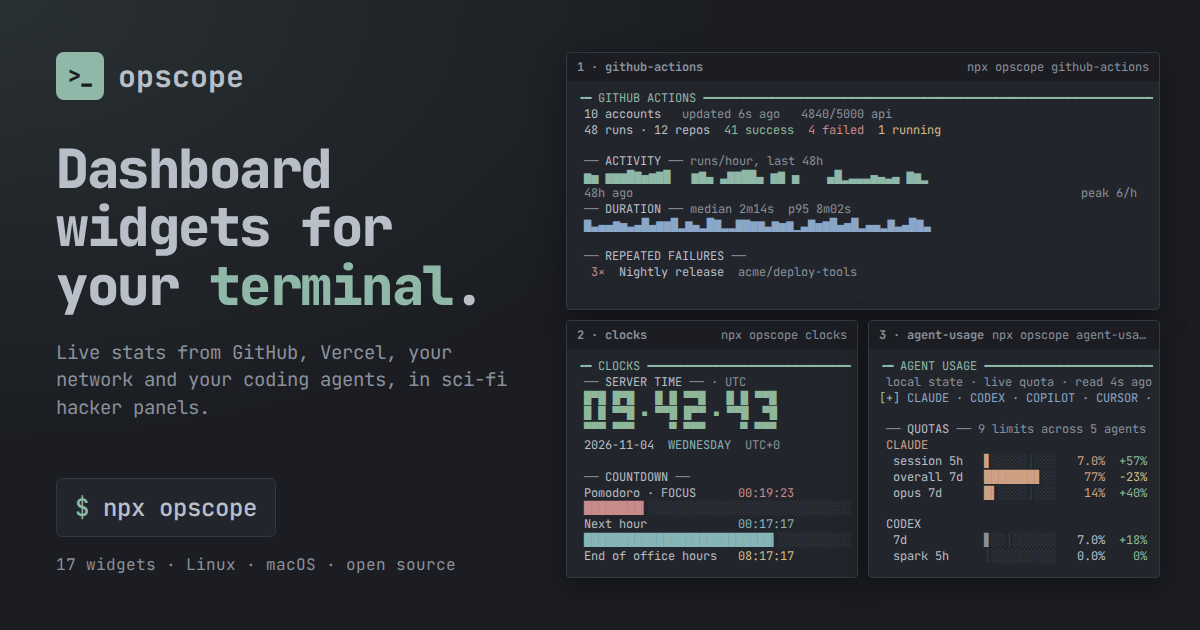
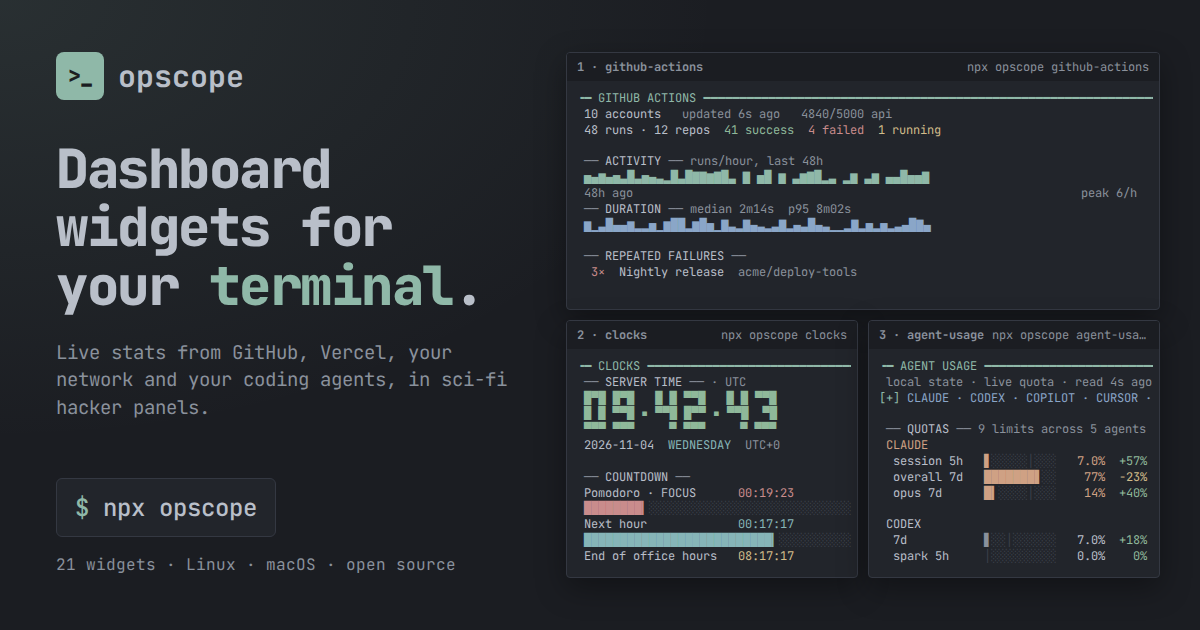
feat: add the four widgets from opscope v2.7.0 (#21)
* feat: add disk, google-analytics, google-search-console and rex-panes (opscope v2.7.0)

The four widgets the site was missing as of opscope v2.7.0, each with a
demo laid out after its README mock-up:

- disk (system & network): filesystems with time-to-full, whole disks,
  read/write chart, I/O pressure.
- google-analytics (dev & deploy): realtime against a baseline, today vs
  same weekday, key events. Dummy data is opscope's own site.
- google-search-console (dev & deploy): last 24 hours of clicks with
  hours still collecting, query movers, index health.
- rex-panes (agents): Rex sessions ordered by who needs a human, with
  reported status, progress and child records.

The dashboard window now shows ports in slot 5 (was latency),
google-search-console in slot 7 and google-analytics in slot 8 (was
months). The network group is labelled "system & network". The site,
README and social card say 21 widgets.

Claude-Session: https://claude.ai/code/session_01KVgNwqvAmxQYz7gbSeKUNW

* fix: keep every Search Console hour visible and stop hard-coding the widget count

- Use 2-character bars only at 83+ columns (12-column label + 71-column
  chart), so panes 64-82 wide no longer clip the newest hours.
- Mark still-collecting hours per cell, which keeps the gap before each
  ░░ in the wide layout.
- Homepage intro and meta description use widgets.length instead of
  "Seventeen".

Claude-Session: https://claude.ai/code/session_01KVgNwsNjDaEgM1q1a9tYrJ

---------

Changed region(s): [[0.4933, 0.3317, 0.7708, 0.3619], [0.4933, 0.2714, 0.7708, 0.3016], [0.0308, 0.8746, 0.0617, 0.9048]]

diff --git a/src/scripts/demos.ts b/src/scripts/demos.ts
@@ -964,9 +964,293 @@ function matrix(): Demo {
 	};
 }
 
+/* ── system ──────────────────────────────────────────────────────────── */
+
+function disk(): Demo {
+	const GB = 1e9;
+	const mounts = [
+		{ mount: '/', type: 'ext4', size: 100 * GB, used: 80.4 * GB, rate: 1.2 * GB },
+		{ mount: '/home', type: 'xfs', size: 200 * GB, used: 40 * GB, rate: 0 },
+		{ mount: '/srv', type: 'ext4', size: 500 * GB, used: 310 * GB, rate: 6.5 * GB },
+	];
+	const disks = [
+		{ name: 'nvme0n1', type: 'ssd', size: '1T', r: 1.5e6, w: 18e6, busy: 18 },
+		{ name: 'sda', type: 'hdd', size: '4T', r: 4e5, w: 1e6, busy: 2 },
+	];
+	const rd: number[] = hist(90, () => rnd(2e5, 3e6)), wr: number[] = hist(90, () => rnd(1e6, 3e7));
+	let some = 23.1, full = 7.2, sel = 0, f = 0;
+	const step = () => {
+		f++;
+		const burst = Math.random() < 0.15;
+		push(rd, burst ? rnd(2e6, 9e6) : rnd(2e5, 3e6), 90);
+		push(wr, burst ? rnd(2e7, 6e7) : rnd(1e6, 2.5e7), 90);
+		disks[0].r = rd[rd.length - 1] * 0.8;
+		disks[0].w = wr[wr.length - 1] * 0.9;
+		disks[0].busy = Math.round(clamp(disks[0].w / 4e5, 3, 96));
+		disks[1].r = rd[rd.length - 1] * 0.2;
+		disks[1].w = wr[wr.length - 1] * 0.1;
+		disks[1].busy = Math.round(clamp(disks[1].w / 2e5, 0, 40));
+		// A demo hour passes every 2s, so the filling mounts creep up.
+		mounts.forEach((m) => (m.used = Math.min(m.size * 0.995, m.used + m.rate / 1800)));
+		some = walk(some, 1.5, 4, 40);
+		full = walk(full, 0.8, 0, some / 2);
+		if (f % 8 === 0) sel = (sel + 1) % mounts.length;
+	};
+	const fills = (m: (typeof mounts)[number]) => {
+		if (!m.rate) return 'not filling';
+		const h = (m.size - m.used) / m.rate;
+		return h < 24 ? `~${Math.round(h)}h` : `~${Math.floor(h / 24)}d ${Math.round(h % 24)}h`;
+	};
+	return {
+		every: 1000,
+		tick: step,
+		render(cols) {
+			const L: Line[] = [
+				header('DISK', cols),
+				[[` sampled ${f % 2}s ago · every 2s`, 'mu']],
+				[[` ${mounts.length} of 11 shown · pseudo, bind, read-only hidden`, 'mu']],
+				blank(),
+				section('FILESYSTEMS', 'usable excludes root reserve'),
+				[[' ' + pad('MOUNT', 7) + padL('SIZE', 6) + padL('USABLE', 8) + ' '.repeat(12) + 'FULL IN', 'c']],
+			];
+			mounts.forEach((m, i) => {
+				const frac = m.used / m.size;
+				const b = bar(frac, 6);
+				const c: Colour = frac > 0.9 ? 'r' : frac > 0.8 ? 'y' : 'g';
+				const fi = fills(m);
+				L.push([[i === sel ? '▸' : ' ', 'acc'], [pad(m.mount, 7), 'fg'], [padL(fmtBytes(m.size).replace(' ', ''), 6), 'mu'], [padL(fmtBytes(m.size - m.used).replace(' ', ''), 8) + ' ', 'fg'], [b.on, c], [b.off, 'dim'], [padL(Math.round(frac * 100) + '%', 4) + ' ', c], [fi, fi.startsWith('~') && !fi.includes('d') ? 'r' : fi.startsWith('~') ? 'y' : 'mu']]);
+			});
+			L.push([[' FULL IN at the rate of the last 24h', 'mu']]);
+			L.push(blank(), section('DISKS', 'whole disks · sorted: write'));
+			L.push([[' ' + pad('DISK', 10) + pad('TYPE', 6) + padL('SIZE', 5) + padL('READ', 9) + padL('WRITE', 9) + padL('BUSY', 6), 'c']]);
+			disks.forEach((d) => L.push([[' ' + pad(d.name, 10), 'fg'], [pad(d.type, 6) + padL(d.size, 5), 'mu'], [padL(fmtRate(d.r).replace(' ', ''), 9), 'b'], [padL(fmtRate(d.w).replace(' ', ''), 9), 'm'], [padL(d.busy + '%', 6), d.busy > 80 ? 'r' : d.busy > 50 ? 'y' : 'fg']]));
+			// Read above the line, write below, each on its own scale (writes run ten times larger).
+			const w = cols - 15;
+			L.push(blank());
+			columns(rd.slice(-w), 2).forEach((s, i) => L.push([[i === 1 ? padL('read ' + fmtRate(rd[rd.length - 1]).replace(' ', ''), 13) + ' ' : ' '.repeat(14), 'mu'], [s, 'b']]));
+			L.push([[' '.repeat(14) + '─'.repeat(w), 'mu']]);
+			columns(wr.slice(-w), 2).reverse().forEach((s, i) => L.push([[i === 0 ? padL('write ' + fmtRate(wr[wr.length - 1]).replace(' ', ''), 13) + ' ' : ' '.repeat(14), 'mu'], [s.replace(/[▁▂▃▄▅▆▇]/g, '▀'), 'm']]));
+			L.push(blank(), [[' /proc/pressure/io · stall time, not busy time', 'mu']]);
+			L.push([[' some ', 'mu'], [`${some.toFixed(1)}%`, some > 30 ? 'r' : some > 15 ? 'y' : 'fg'], [' avg10   full ', 'mu'], [`${full.toFixed(1)}%`, full > 10 ? 'r' : 'fg'], [' avg10', 'mu']]);
+			L.push(blank(), keys('↑↓ select  [↵] detail  [s]ort  tab section  [w] 6h  [p]ause  [q]uit'));
+			return L;
+		},
+	};
+}
+
+/* ── web ─────────────────────────────────────────────────────────────── */
+
+function googleAnalytics(): Demo {
+	// Active users per minute for the last 30 minutes, and the baseline for this minute of the week.
+	const perMin: number[] = hist(30, () => Math.round(rnd(30, 60)));
+	// The opscope site itself: its one page, its windows, and the events it sends.
+	const active = new Roll(71);
+	const base = 48;
+	const pages = [
+		{ t: '/', n: 34 },
+		{ t: '/#widgets', n: 19 },
+		{ t: '/?theme=nord', n: 11 },
+	];
+	const countries = [
+		{ t: 'United States', n: 41 },
+		{ t: 'Australia', n: 9 },
+		{ t: 'Germany', n: 7 },
+	];
+	const events = [
+		{ name: 'command_copy', today: 23, last: 31, d7: [5, 6, 5, 7, 6, 7] },
+		{ name: 'outbound_click', today: 41, last: 38, d7: [3, 4, 3, 5, 4, 5] },
+	];
+	let views = 540, today = 1842;
+	const lastWeek = 1690;
+	const realtime = new Refresh(6, () => {
+		// A new minute lands: the oldest falls off the chart.
+		const n = Math.round(clamp(active.target + rnd(-9, 10), 28, 110));
+		active.set(n);
+		push(perMin, Math.round(n * rnd(0.5, 0.9)), 30);
+		views += Math.round(rnd(-20, 30));
+		pages.forEach((p) => (p.n = Math.max(1, p.n + Math.round(rnd(-3, 3)))));
+		pages.sort((a, b) => b.n - a.n);
+		countries.forEach((c) => (c.n = Math.max(1, c.n + Math.round(rnd(-2, 2)))));
+		countries.sort((a, b) => b.n - a.n);
+		if (Math.random() < 0.4) events[1].today++;
+		if (Math.random() < 0.2) events[0].today++;
+		today += Math.round(rnd(4, 18));
+	}, 3);
+	return {
+		every: 1000,
+		tick() {
+			realtime.poll();
+		},
+		render(cols) {
+			const now = active.n;
+			const d = Math.round(((now - base) / base) * 100);
+			const L: Line[] = [
+				header('GOOGLE ANALYTICS', cols),
+				[[' opscope.stealth-factory.co', 'fg'], ['  ←→ 1 of 2  ', 'mu'], realtime.seg('realtime')],
+				blank(),
+				section('RIGHT NOW', 'last 30 min · GA realtime'),
+				[[' active users ', 'mu'], [String(now), active.moving ? 'g' : 'fg'], [`   baseline ${base} · from 2 of 4 weeks   `, 'mu'], [`${d >= 0 ? '+' : ''}${d}% ${d > 20 ? '▲' : d < -20 ? '▼' : ''}`, d > 20 ? 'g' : d < -20 ? 'r' : 'fg']],
+			];
+			const w = Math.min(30, cols - 16);
+			const pk = Math.max(...perMin);
+			columns(perMin.slice(-w), 3, pk).forEach((s, i) => L.push([[pad(i === 0 ? ' per minute' : i === 1 ? ` peak ${pk}` : ' 30 min → now', 15), 'mu'], [s, 'acc']]));
+			L.push([[' views 30m ', 'mu'], [views.toLocaleString('en-US'), 'fg']]);
+			L.push([[' key events 30m: ', 'mu'], ['command_copy 3', 'fg'], [' (base 2)', 'mu']]);
+			const half = Math.floor((cols - 2) / 2);
+			const two = half >= 24;
+			const tw = (two ? half : cols - 2) - 6;
+			if (two) {
+				L.push([[' ' + pad('PAGE', tw) + padL('NOW', 5) + '  ' + pad('COUNTRY', tw - 1) + padL('NOW', 5), 'c']]);
+				pages.forEach((p, i) => L.push([[' ' + pad(p.t, tw), 'fg'], [padL(p.n, 5) + '  ', 'acc'], [pad(countries[i].t, tw - 1), 'fg'], [padL(countries[i].n, 5), 'acc']]));
+			} else {
+				L.push([[' ' + pad('PAGE', tw) + padL('NOW', 5), 'c']]);
+				pages.forEach((p) => L.push([[' ' + pad(p.t, tw), 'fg'], [padL(p.n, 5), 'acc']]));
+			}
+			L.push(blank(), section('TODAY VS SAME WEEKDAY', 'sessions · 2–6 h behind'));
+			const dt = Math.round(((today - lastWeek) / lastWeek) * 100);
+			L.push([[' to 15:00: today ', 'mu'], [today.toLocaleString('en-US'), 'fg'], [`  last Tue ${lastWeek.toLocaleString('en-US')} `, 'mu'], [`${dt >= 0 ? '+' : ''}${dt}%`, dt >= 0 ? 'g' : 'r']]);
+			L.push(blank(), section('KEY EVENTS', 'today to 15:00 vs same weekday'));
+			L.push([[' ' + pad('EVENT', 15) + padL('TODAY', 6) + padL('LAST', 6) + padL('Δ', 7) + '  LAST 7 D', 'c']]);
+			events.forEach((e, i) => {
+				const de = Math.round(((e.today - e.last) / e.last) * 100);
+				L.push([[i === 0 ? '▸' : ' ', 'acc'], [pad(e.name, 15), 'fg'], [padL(e.today, 6), 'fg'], [padL(e.last, 6), 'mu'], [padL(`${de >= 0 ? '+' : ''}${de}%`, 7), de <= -20 ? 'r' : de >= 20 ? 'g' : 'fg'], ['  ' + spark(e.d7, 8), 'acc'], ['░', 'dim']]);
+			});
+			L.push(blank(), keys('↑↓ row  tab section  ←→ property  ↵ detail  [m]etric  [l]ive  [q]uit'));
+			return L;
+		},
+	};
+}
+
+function googleSearchConsole(): Demo {
+	// Clicks per hour, last 24; the newest hours are still being collected.
+	const shape = (h: number) => 40 + 100 * Math.max(0, Math.sin(((h - 6) / 24) * Math.PI * 2)) + rnd(-12, 12);
+	let hour = 11;
+	const clicks: number[] = Array.from({ length: 24 }, (_, i) => Math.round(shape(hour - 23 + i)));
+	let collecting = 3;
+	const queries = [
+		{ q: 'example widget pricing', impr: 6000, d: 50, pos: 5.0, dp: 0 },
+		{ q: 'example dashboard', impr: 3200, d: 12, pos: 7.4, dp: 0.6 },
+		{ q: 'example', impr: 1000, d: NaN, pos: 5.0, dp: 0 },
+		{ q: 'example cli docs', impr: 840, d: -31, pos: 11.2, dp: -2.1 },
+	];
+	const index = [
+		{ st: 'FAIL', c: 'r' as Colour, page: '/docs/getting-started', why: 'SOFT_404 · Google chose /pricing' },
+		{ st: 'ERROR', c: 'y' as Colour, page: '/docs/old-guide', why: 'HTTP 404 · crawled 34h ago' },
+	];
+	let inspections = 3, sel = 0, f = 0;
+	const refresh = new Refresh(12, () => {
+		// Google finishes an hour: it stops collecting, and a new hour starts.
+		hour = (hour + 1) % 24;
+		push(clicks, Math.round(shape(hour)), 24);
+		collecting = 3;
+		inspections += 1;
+		queries.forEach((q) => (q.impr = Math.round(q.impr * rnd(0.98, 1.04))));
+	}, 4);
+	return {
+		every: 1000,
+		tick() {
+			f++;
+			refresh.poll();
+			if (f % 5 === 0) sel = (sel + 1) % queries.length;
+		},
+		render(cols) {
+			const L: Line[] = [
+				header('SEARCH CONSOLE', cols),
+				[[' sc-domain:example.com', 'fg'], ['   site 1 of 2   ', 'mu'], refresh.seg('fetched')],
+				[[` hourly to ${String(hour).padStart(2, '0')}:00 · Google runs a few hours behind`, 'mu']],
+				blank(),
+				section('LAST 24 HOURS', 'clicks by hour'),
+			];
+			const done = clicks.slice(0, 24 - collecting);
+			const pk = Math.max(...done);
+			// Wide bars (2 chars + a gap) need 12 + 24 * 3 - 1 = 83 columns; below that, 1-char bars keep every hour visible.
+			const cw = cols >= 83 ? 2 : 1;
+			const grid = columns(clicks.map((v, i) => (i >= 24 - collecting ? 0 : v)), 3, pk);
+			grid.forEach((s, r) => {
+				const row = [...s]
+					.map((ch, i) => (r === 2 && i >= 24 - collecting ? '░' : ch).repeat(cw))
+					.join(cw > 1 ? ' ' : '');
+				L.push([[pad(r === 0 ? ' clicks' : r === 1 ? ` peak ${pk}` : '', 12), 'mu'], [row, 'g']]);
+			});
+			const total = done.reduce((a, b) => a + b, 0);
+			L.push([[` ${done.length} complete hours: `, 'mu'], [`${total.toLocaleString('en-US')} clicks`, 'fg'], ['  vs last week ', 'mu'], ['+8%', 'g']]);
+			L.push([[' ░ still collecting', 'dim']]);
+			L.push(blank(), section('MOVERS · QUERIES', '7 days vs prior 7'));
+			const qw = Math.max(14, Math.min(26, cols - 26));
+			L.push([['  ' + pad('QUERY', qw) + padL('IMPR', 7) + padL('Δ', 7) + padL('POS', 6), 'c']]);
+			queries.forEach((q, i) => L.push([[i === sel ? '▸ ' : '  ', 'acc'], [pad(q.q, qw), i === sel ? 'acc' : 'fg'], [padL(q.impr.toLocaleString('en-US'), 7), 'fg'], [padL(isNaN(q.d) ? 'new' : `${q.d > 0 ? '+' : ''}${q.d}%`, 7), isNaN(q.d) || q.d > 0 ? 'g' : 'r'], [padL(q.pos.toFixed(1), 6), 'mu'], [q.dp ? (q.dp > 0 ? ' ▲' : ' ▼') + Math.abs(q.dp).toFixed(1) : '', q.dp > 0 ? 'g' : 'r']]));
+			L.push(blank(), section('INDEX HEALTH', `inspected daily · ${inspections}/2,000`));
+			index.forEach((x) => {
+				L.push([['  ' + pad(x.st, 7), x.c], [x.page, 'fg']]);
+				L.push([['           ' + x.why, 'mu']]);
+			});
+			L.push([['  ' + pad('PASS', 7), 'g'], ['23 pages   crawled within 34h', 'mu']]);
+			L.push(blank(), keys('↑↓ select  tab section  ←→ site  ↵ open  [m]etric  [i]nspect  [q]uit'));
+			return L;
+		},
+	};
+}
+
+/* ── agents (Rex) ────────────────────────────────────────────────────── */
+
+function rex(): Demo {
+	let f = 0, pct = 40;
+	const agents = [
+		{ who: 'claude', st: 'BLOCKED', for: 120, cpu: 1, mem: '412M', at: 'api:1', dir: '~/src/api', title: '◑ api', msg: 'permission · approve: cargo test --workspace' },
+		{ who: 'codex', st: 'working', for: 300, cpu: 22, mem: '231M', at: 'web:2', dir: '~/src/web', title: '◑ web', msg: 'rewriting the checkout form' },
+		{ who: 'claude', st: 'done', for: 960, cpu: 0, mem: '388M', at: 'site:2', dir: '~/work/site', title: 'Ok', msg: 'replied \'ok\' as requested' },
+		{ who: 'claude', st: 'unknown', for: 720, cpu: 0, mem: '193M', at: 'work:1', dir: '~', title: '◑ opscope', msg: 'no status reported' },
+	];
+	const order = ['BLOCKED', 'done', 'working', 'unknown'];
+	return {
+		every: 250,
+		tick() {
+			f++;
+			agents.forEach((a) => (a.for += 0.25));
+			agents[1].cpu = Math.round(walk(agents[1].cpu, 4, 4, 70));
+			if (f % 4 === 0) pct = pct >= 100 ? 0 : pct + 1;
+			// Every so often the working agent finishes, then starts on something new.
+			if (f % 80 === 0) {
+				const a = agents[1];
+				a.st = a.st === 'done' ? 'working' : 'done';
+				a.for = 0;
+				a.msg = a.st === 'done' ? 'checkout form rewritten, tests pass' : 'rewriting the checkout form';
+			}
+		},
+		render(cols) {
+			const icon = (s: string): [string, Colour] => (s === 'working' ? [spinner[f % 10], 'y'] : s === 'done' ? ['✓', 'g'] : s === 'BLOCKED' ? ['⚠', 'r'] : ['?', 'mu']);
+			const count = (s: string) => agents.filter((a) => a.st === s).length;
+			const waiting = count('BLOCKED') + count('done');
+			const L: Line[] = [
+				header('REX PANES', cols),
+				[[` ${agents.length} agents · 3 sessions · 10 panes  `, 'fg'], [`${count('BLOCKED')} blocked  `, 'r'], [`${count('done')} done  `, 'g'], [`${count('working')} working`, 'y']],
+				[[' ', 'fg'], ...stack([[count('BLOCKED'), 'r'], [count('done'), 'g'], [count('working'), 'y'], [count('unknown') + 5, 'dim']], cols - 2)],
+				[[` ▸ ${waiting} panes waiting for you`, 'acc']],
+				blank(),
+				section('AGENTS', String(agents.length)),
+				[[' ' + pad('AGENT', 10) + pad('STATE', 9) + padL('FOR', 5) + padL('CPU', 6) + padL('MEM', 6) + '  SESSION', 'c']],
+			];
+			[...agents].sort((a, b) => order.indexOf(a.st) - order.indexOf(b.st)).forEach((a, i) => {
+				const [ic, c] = icon(a.st);
+				L.push([[i === 0 ? '▸' : ' ', 'acc'], [ic + ' ', c], [pad(a.who, 8), 'fg'], [pad(a.st, 9), c], [padL((a.st === 'unknown' ? '≥' : '') + ago(a.for), 5), 'mu'], [padL(a.cpu + '%', 6), 'fg'], [padL(a.mem, 6), 'mu'], ['  ' + a.at, 'c']]);
+				L.push([[`   ${a.dir}  `, 'mu'], [a.title, 'fg']]);
+				L.push([[`   ${a.msg}`, a.st === 'BLOCKED' ? 'y' : 'mu']]);
+			});
+			L.push(blank(), section('PROCESSES', '2 panes running something'));
+			L.push([[' ▪ ', 'b'], [pad('terraform', 14), 'fg'], [pad('working', 9), 'y'], [padL(pct + '%', 5), 'fg'], ['  infra:1', 'c']]);
+			L.push([['   ├ ', 'mu'], ['plan  ', 'fg'], ['done  ', 'g'], ['├ apply  ', 'mu'], [pct < 100 ? `${spinner[f % 10]} running` : '✓ done', pct < 100 ? 'y' : 'g']]);
+			L.push([[' ▪ ', 'b'], [pad('cargo', 14), 'fg'], [pad('', 9), 'mu'], [padL('87%', 5), 'fg'], ['  web:1', 'c']]);
+			L.push(blank(), section('IDLE', '4 panes at a prompt'), [[' ▫ ~/work/site', 'mu']], [[' ▫ ~/src/api', 'mu']]);
+			L.push(blank(), keys('↑↓ select  ↵ switch to this pane  tab section  [e]xplain  [r]efresh  [q]uit'));
+			return L;
+		},
+	};
+}
+
 export const demos: Record<string, () => Demo> = {
-	latency, tailnet, ports, netwatch, link,
+	latency, tailnet, ports, netwatch, link, disk,
 	'vercel-deployments': vercel, github, 'github-actions': githubActions, 'github-prs': githubPrs, linear,
-	'herdr-panes': herdr, 'luvus-panes': luvus, 'agent-usage': agentUsage,
+	'google-analytics': googleAnalytics, 'google-search-console': googleSearchConsole,
+	'herdr-panes': herdr, 'luvus-panes': luvus, 'rex-panes': rex, 'agent-usage': agentUsage,
 	'google-trends': trends, clocks, months, matrix,
 };

diff --git a/src/data/widgets.ts b/src/data/widgets.ts
@@ -9,7 +9,7 @@ export interface Widget {
 }
 
 export const groups: { key: Group; label: string }[] = [
-	{ key: 'network', label: 'network' },
+	{ key: 'network', label: 'system & network' },
 	{ key: 'dev', label: 'dev & deploy' },
 	{ key: 'agents', label: 'agents' },
 	{ key: 'ambient', label: 'ambient' },
@@ -21,13 +21,17 @@ export const widgets: Widget[] = [
 	{ name: 'ports', group: 'network', line: 'What is listening on this machine, which project started it, and whether anything outside can reach it.', needs: 'lsof on macOS' },
 	{ name: 'netwatch', group: 'network', line: 'Which processes are using the network, up and down, from the operating system’s own counters.', needs: 'ip + ss / nettop' },
 	{ name: 'link', group: 'network', line: 'Round-trip time, jitter and loss for every inbound session, read rather than probed.', needs: 'ss / nettop' },
+	{ name: 'disk', group: 'network', line: 'Which filesystems can still take a write and when each fills, which disks are busy, and, on Linux, whether I/O is stalling.', needs: 'nothing' },
 	{ name: 'vercel-deployments', group: 'dev', line: 'Vercel deployments over time, build-time drift, and the build log of the one you open.', needs: 'curl, Vercel token' },
 	{ name: 'github', group: 'dev', line: 'Pull requests across every org: merge rate, review backlog and the contribution calendar.', needs: 'curl, GitHub token' },
 	{ name: 'github-actions', group: 'dev', line: 'What is running or queued, which workflows keep failing, and whether the pipeline is getting slower.', needs: 'curl, GitHub token' },
 	{ name: 'github-prs', group: 'dev', line: 'The pull requests you have to follow up on: checks, reviews, mergeability and a stack map.', needs: 'curl, GitHub token' },
 	{ name: 'linear', group: 'dev', line: 'Linear across every team: outstanding work, running cycles and their scope creep.', needs: 'curl, Linear API key' },
+	{ name: 'google-analytics', group: 'dev', line: 'GA4 on a wall: is traffic normal right now against a baseline it records itself, and did key events hold up?', needs: 'Google service account' },
+	{ name: 'google-search-console', group: 'dev', line: 'Which pages and queries moved in Google Search, what people search to arrive, and which earners are broken in the index.', needs: 'Google service account' },
 	{ name: 'herdr-panes', group: 'agents', line: 'Every agent and process across all workspaces, ordered by which one needs a human.', needs: 'herdr' },
 	{ name: 'luvus-panes', group: 'agents', line: 'Agents in a Luvus session ordered by who needs a human, plus their tasks and reserved paths.', needs: 'luvus' },
+	{ name: 'rex-panes', group: 'agents', line: 'Everything under a Rex server, across every session: agents by the state they report themselves, blocked first.', needs: 'rex' },
 	{ name: 'agent-usage', group: 'agents', line: 'How much each coding agent has been used, and what is left of each one’s rate limit.', needs: 'the agents’ own logins' },
 	{ name: 'google-trends', group: 'ambient', line: 'What a region is searching for right now, from Google’s Trending Now feed. No account or key.', needs: 'curl' },
 	{ name: 'clocks', group: 'ambient', line: 'Server clock, countdowns to the hour and end of day, a pomodoro and a world clock.', needs: 'nothing' },
@@ -42,7 +46,7 @@ export const widgets: Widget[] = [
  */
 export const screens = [
 	{ id: 'factory', title: 'software factory', widgets: ['vercel-deployments', 'github-actions', 'clocks', 'herdr-panes', 'github-prs', 'agent-usage'] },
-	{ id: 'dashboard', title: 'dashboard', widgets: ['github', 'linear', 'google-trends', 'netwatch', 'latency', 'tailnet', 'ports', 'months'] },
+	{ id: 'dashboard', title: 'dashboard', widgets: ['github', 'linear', 'google-trends', 'netwatch', 'ports', 'tailnet', 'google-search-console', 'google-analytics'] },
 ] as const;
 
 export const docsUrl = (name: string) =>

diff --git a/README.md b/README.md
@@ -9,7 +9,7 @@ Built with [Astro](https://astro.build). The whole page is a terminal screen:
 a `1:factory` window with the pitch and install commands beside six panes of
 software-factory widgets, a `2:dashboard` window of eight panes, four across (both
 sets live in `screens` in `src/data/widgets.ts`), a `3:widgets` window that
-shows all 17 with group filters and type-to-filter,
+shows all 21 with group filters and type-to-filter,
 and a tmux-style status line that switches windows and picks one of 50 colour
 themes (`src/data/themes.ts`; opscope Dusk is the default, `?theme=<id>` links
 to another).
